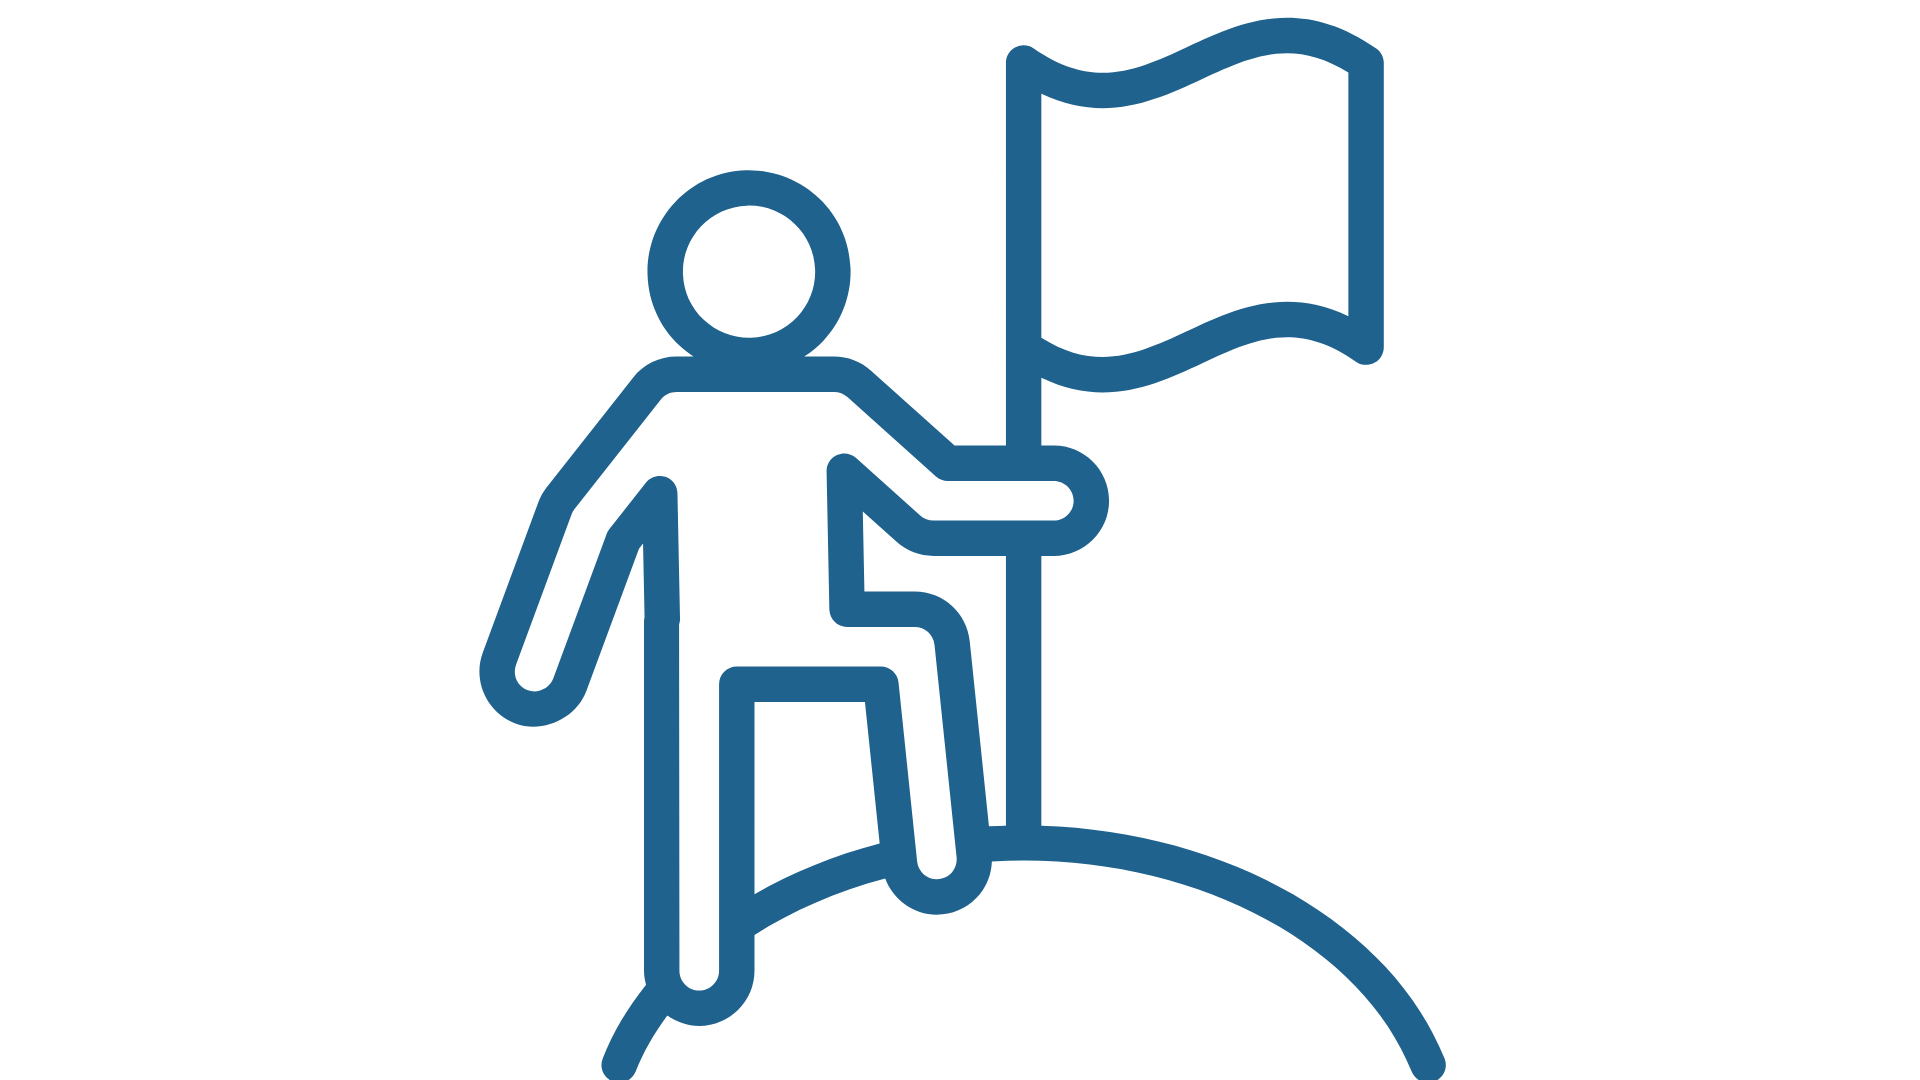
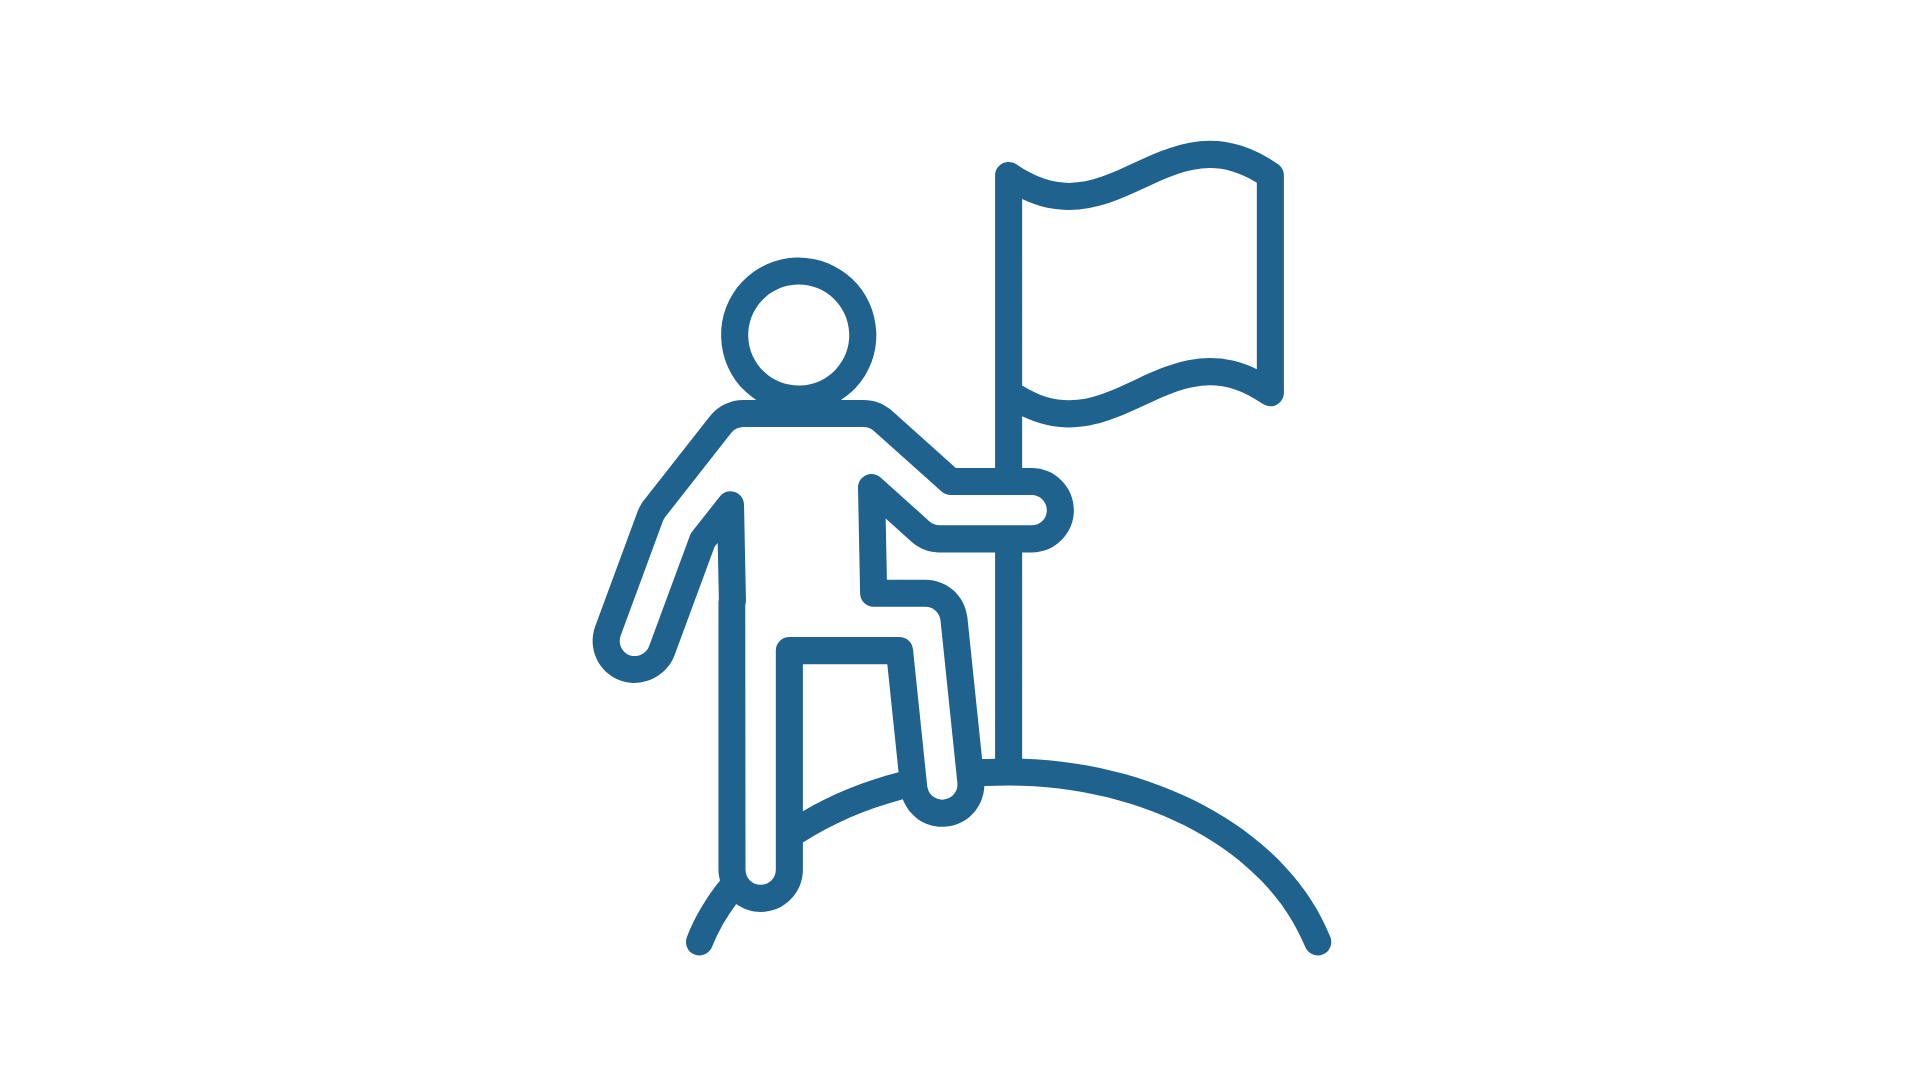
una imagen, mision, vision, objetivos

Changed region(s): [[0.25, 0.0, 0.75, 1.0]]

diff --git a/index.html b/index.html
@@ -82,42 +82,54 @@
 
     <br>
 
-        <img src="./images/36.jpg" alt="modificar esto" class="img-fluid mb-4" />
+    <img src="./images/36.png" alt="modificar esto" class="img-fluid mb-4" style="max-width: 1300px;" />
+
     <br>
     <br>
 
 
-    <h3 class="text-center" id="mision"></h3>
+    <h3 class="text-center" id="mision">Nuestra esencia</h3>
     <div class="mission-section">
         <div class="row text-center justify-content-center">
-            <div class="col-md-4">
-                <div class="card">
+            <div class="col-md-4 mb-4">
+                <div class="card h-100">
                     <img src="./images/33.png" class="card-img-top" alt="Misión">
                     <div class="card-body">
                         <h5 class="card-title">Misión</h5>
+                        <p class="card-text">
+                            Brindar experiencias inmersivas con realidad virtual y videos 360° que promuevan el aprendizaje, la inclusión y la preservación del patrimonio cultural mexicano.
+                        </p>
                     </div>
                 </div>
             </div>
 
-            <div class="col-md-4">
-                <div class="card">
+            <div class="col-md-4 mb-4">
+                <div class="card h-100">
                     <img src="./images/34.png" class="card-img-top" alt="Visión">
                     <div class="card-body">
                         <h5 class="card-title">Visión</h5>
+                        <p class="card-text">
+                            Ser en 5 años la plataforma líder en experiencias culturales inmersivas en México, destacando por su innovación, inclusión y alcance educativo.
+                        </p>
                     </div>
                 </div>
             </div>
 
-            <div class="col-md-4">
-                <div class="card">
+            <div class="col-md-4 mb-4">
+                <div class="card h-100">
                     <img src="./images/35.png" class="card-img-top" alt="Objetivo">
                     <div class="card-body">
                         <h5 class="card-title">Objetivo</h5>
+                        <p class="card-text">
+                            Ofrecer experiencias virtuales inclusivas que promuevan la educación y el conocimiento cultural en México mediante recorridos en 360.
+                        </p>
                     </div>
                 </div>
             </div>
         </div>
     </div>
+
+
 
     <hr>
 

diff --git a/main.css b/main.css
@@ -83,3 +83,29 @@ footer {
   box-shadow: none; /* Optional: remove shadow if it looks like a border */
 }
 
+.card-title {
+  font-family: 'Montserrat', sans-serif;
+  font-weight: 700;
+  font-size: 1.25rem;
+  margin-bottom: 0.5rem;
+}
+
+.card-text {
+  font-family: 'Inter', sans-serif;
+  font-weight: 400;
+  font-size: 1rem;
+  color: #444;
+  padding: 0 1rem 1rem;
+}
+
+.mission-section .card {
+  border: none;
+  box-shadow: 0 0.5rem 1rem rgba(0,0,0,0.1);
+  border-radius: 1rem;
+  transition: transform 0.3s ease;
+}
+
+.mission-section .card:hover {
+  transform: translateY(-5px);
+}
+
